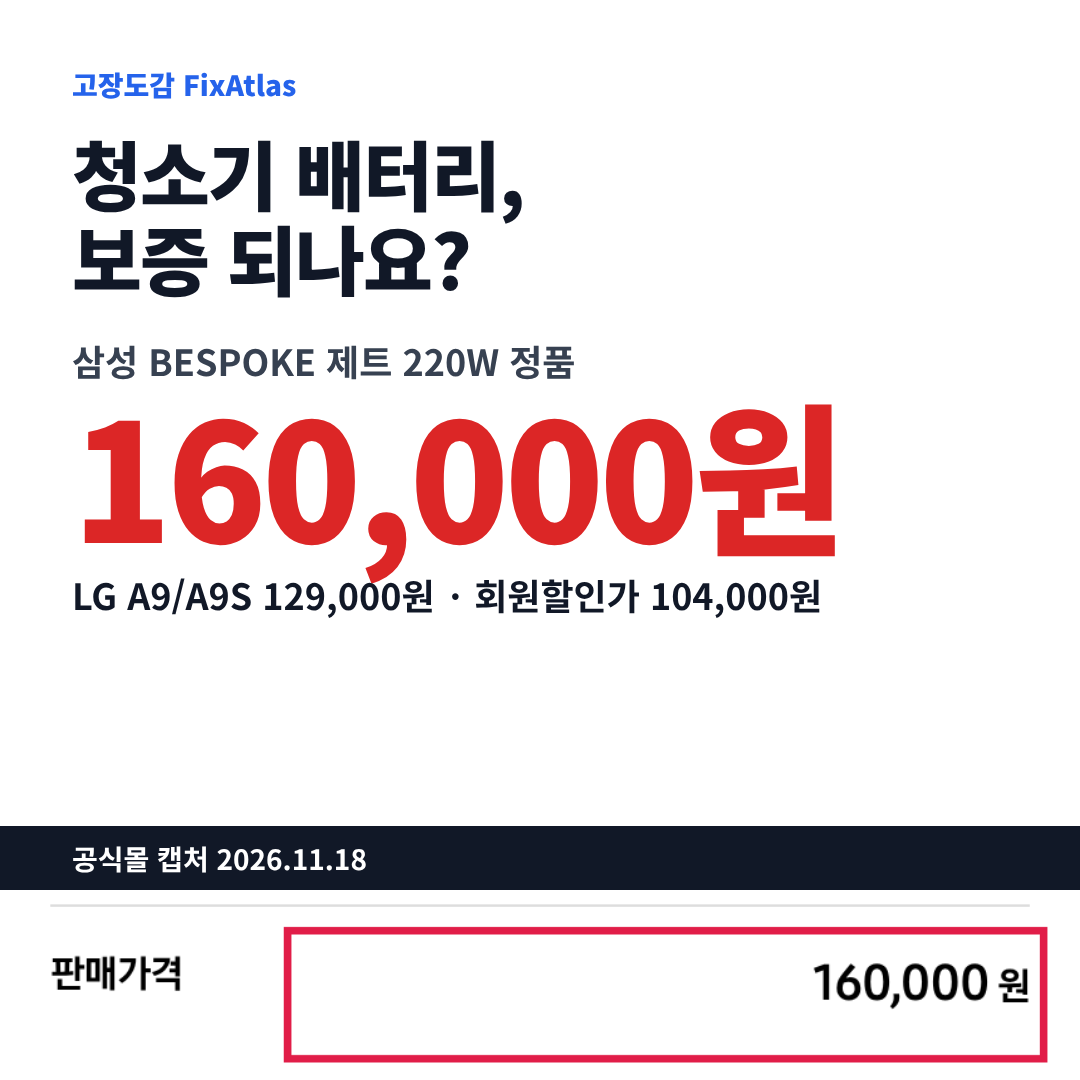
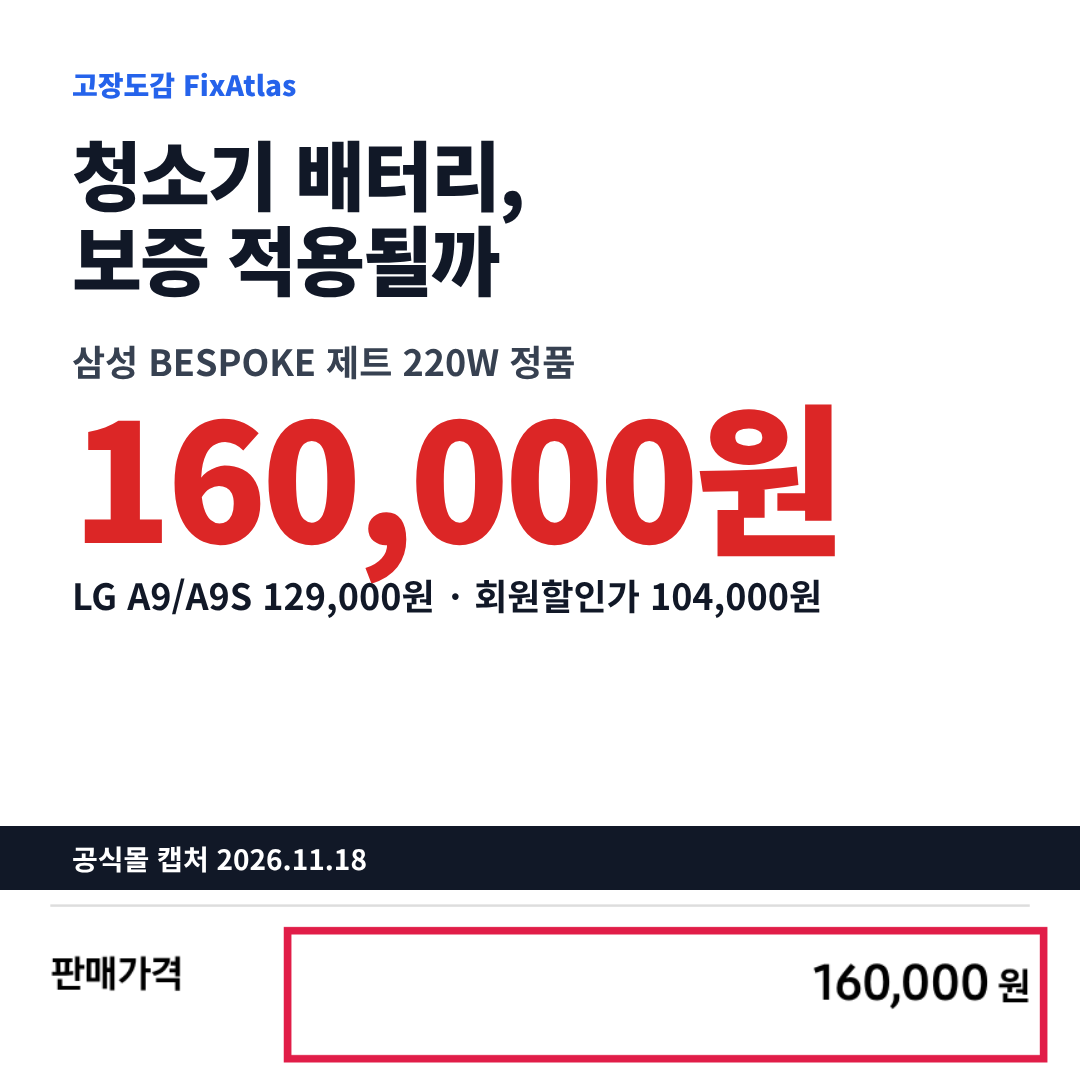
style(blog): formal register (합니다체) rewrite per user review, using koreanRewriting rules
- posts 01-03 rewritten in 격식체; disclosure as one quote-styled line ('광고·제휴 없이 작성한 글입니다');
  work-report narration ('열어 대조했고 캡처해 붙였어요') removed — dates moved to source lines and captions
- koreanRewriting quick-rules applied: no comma after connective endings (C-11: 20 -> 0), register
  consistency, fewer summary/cleft endings; metrics via its prepare_monolith_input.py (risk low, route light)
- check-claims: informal_register (해요체 fails unless register: polite) and work_report checks
- thumbnails: headline copy without 해요체; EDITORIAL_STANDARDS §5 rewritten; affiliate disclosure sample formal

Claude-Session: https://claude.ai/code/session_01S8aYJMqtEgMRbXyeMmbqGH

Changed region(s): [[0.2139, 0.1833, 0.4583, 0.275]]

diff --git a/docs/blog/naver/03-robot-defects.md b/docs/blog/naver/03-robot-defects.md
@@ -34,17 +34,17 @@ claims:
 
 # 로봇청소기 고장 피해 10건 중 7건이 제품 하자 (2025 소비자원 분석)
 
-한국소비자원이 2022년부터 2025년 6월까지 접수된 로봇청소기 피해구제 신청을 분석했더니, 74.5%가 제품 하자 때문이었어요. 그런데 하자 피해를 환급·수리 등으로 회복한 비율은 56.5%로, 계약·거래 피해(84.1%)보다 크게 낮았어요. 소비자원은 사업자가 하자를 인정하지 않거나 소비자의 사용 과실을 주장해 합의가 어렵다고 설명했어요.
+한국소비자원이 2025년 8월 발표한 분석에 따르면 2022년부터 2025년 6월까지 접수된 로봇청소기 피해구제 신청의 74.5%가 제품 하자 때문이었습니다. 하자 피해를 환급·수리 등으로 회복한 비율은 56.5%로 계약·거래 피해(84.1%)보다 크게 낮았습니다. 소비자원은 사업자가 하자를 인정하지 않거나 소비자의 사용 과실을 주장해 합의가 어렵다고 설명했습니다.
 
-![로봇청소기 하자 분쟁 회복률과 소비자원 보도자료 캡처](../cards/03-defects-thumb.png)
+![로봇청소기 하자 분쟁 회복률과 소비자원 보도자료 화면](../cards/03-defects-thumb.png)
 
-숫자는 2025년 8월 소비자원 보도자료에서 가져왔고, 2026년 11월 18일에 원문의 본문·표·그래프와 다시 대조했어요. 새 자료가 나오면 바꿔 실을게요. 광고·제휴는 없어요.
+> 광고·제휴 없이 작성한 글입니다.
 
-신청 건수도 늘고 있어요. 2022년 37건이던 것이 2024년 105건이 됐고, 2025년에는 상반기에만 77건이 접수됐어요.
+신청 건수도 늘고 있습니다. 2022년 37건에서 2024년 105건이 되었고 2025년에는 상반기에만 77건이 접수됐습니다.
 
 ## 어떤 하자가 많았나
 
-제품 하자가 확인된 169건을 유형별로 나눈 결과예요. 보도자료 본문에는 네 가지만 나오지만, 함께 실린 그래프를 보면 소음이 누수보다 많아요.
+제품 하자가 확인된 169건을 유형별로 나누면 다음과 같습니다. 보도자료 본문에는 네 가지 유형만 나오지만 함께 실린 그래프에서는 소음이 누수보다 많습니다.
 
 | 하자 유형 | 비율 |
 |---|---|
@@ -54,76 +54,76 @@ claims:
 | 소음 발생 | 11.8% (그래프에 비율만 표시) |
 | 누수 | 10.7% (18건) |
 
-출처: 한국소비자원 보도자료 본문과 "하자 유형별 현황" 그래프(2026-11-18 확인, 아래 캡처).
+출처: 한국소비자원 보도자료(2025년 8월) 본문과 "하자 유형별 현황" 그래프
 
-![한국소비자원 보도자료의 하자 유형별 현황 그래프(중복 집계)](../evidence/2026-11-robot-defect/kca-chart.png)
+![한국소비자원 보도자료의 하자 유형별 현황 그래프(중복 집계, 2026년 11월 18일 화면)](../evidence/2026-11-robot-defect/kca-chart.png)
 
-그래프 제목에 "중복 집계"라고 적혀 있어요. 한 건에 여러 하자가 겹칠 수 있어서 항목을 다 더하면 100%를 넘어요. 배터리 불량(7.1%)이나 바퀴·브러시 고장도 뒤를 이었어요.
+그래프 제목에 "중복 집계"라고 적혀 있습니다. 한 건에 여러 하자가 겹칠 수 있어 항목을 모두 더하면 100%를 넘습니다. 배터리 불량(7.1%)과 바퀴·브러시 고장이 그 뒤를 잇습니다. 누수는 물청소 기능을 갖춘 제품이 늘면서 생긴 피해라는 것이 소비자원의 설명입니다.
 
 ## 교환·환급을 요구할 수 있는 기준
 
-공정거래위원회 고시 「소비자분쟁해결기준」 별표의 가전제품 기준이에요. 제조사 구분 없이 적용되고, 법제처 국가법령정보센터에 올라온 별표 원문으로 확인했어요.
+공정거래위원회 고시 「소비자분쟁해결기준」의 가전제품 기준은 제조사와 관계없이 적용됩니다.
 
 | 언제, 어떤 하자 | 요구할 수 있는 것 |
 |---|---|
-| 산 지 10일 안에 정상 사용 중 중요한 수리가 필요한 하자 | 제품 교환 또는 구입가 환급 |
-| 산 지 1개월 안에 정상 사용 중 중요한 수리가 필요한 하자 | 제품 교환 또는 무상수리 |
-| 품질보증기간 안에 같은 하자를 2회 고쳤는데 또 생김(3회째) | 수리 불가능으로 보고 교환 또는 구입가 환급 |
-| 품질보증기간 안에 여러 부위를 4회 고쳤는데 또 생김(5회째) | 수리 불가능으로 보고 교환 또는 구입가 환급 |
+| 구입 10일 안에 정상 사용 중 중요한 수리가 필요한 하자 | 제품 교환 또는 구입가 환급 |
+| 구입 1개월 안에 정상 사용 중 중요한 수리가 필요한 하자 | 제품 교환 또는 무상수리 |
+| 품질보증기간 안에 같은 하자를 2회 수리했는데 재발(3회째) | 수리 불가능으로 보고 교환 또는 구입가 환급 |
+| 품질보증기간 안에 여러 부위를 4회 수리했는데 재발(5회째) | 수리 불가능으로 보고 교환 또는 구입가 환급 |
 
-출처: 공정거래위원회 고시 「소비자분쟁해결기준」 별표 Ⅱ 9. 공산품(가전제품), 법제처 국가법령정보센터 게시 파일(2026-11-18 확인). 아래 캡처는 같은 기준을 옮겨 둔 LG전자 안내 페이지예요.
+출처: 공정거래위원회 고시 「소비자분쟁해결기준」 별표 Ⅱ 9. 공산품(가전제품), 법제처 국가법령정보센터 게시 파일
 
-![LG전자 요금/보증 안내에 실린 소비자분쟁해결기준 가전제품 기준](../evidence/2026-11-robot-defect/dispute-rules.png)
+![같은 기준을 옮겨 둔 LG전자 요금/보증 안내(2026년 11월 18일 화면)](../evidence/2026-11-robot-defect/dispute-rules.png)
 
-몇 번 고쳤는지가 교환·환급의 근거가 되니, 수리할 때마다 수리 내역서를 받아 두세요.
+수리 횟수가 교환·환급의 근거가 되므로 수리할 때마다 수리 내역서를 받아 두어야 합니다.
 
-## 사용 과실이라는 말을 들었을 때 필요한 기록
+## 사용 과실 판정에 대비한 기록
 
-업체가 사용 과실을 주장하면 "정상적인 사용상태"였다는 걸 보여 줄 기록이 필요해요.
+업체가 사용 과실을 주장하면 "정상적인 사용상태"였음을 보여 줄 기록이 필요합니다.
 
 - 증상이 처음 나타난 날짜와 앱의 오류 메시지 화면
-- 증상이 나는 순간의 짧은 영상(어느 방, 어떤 바닥인지 같이 보이게)
-- 설명서대로 썼다는 근거: 문턱 높이, 바닥 물기, 정품 소모품 사용 여부
-- 센터 판정 내용과 수리 내역서(되도록 문자나 서면으로)
+- 증상이 나타나는 순간의 짧은 영상(방과 바닥 상태가 함께 보이도록)
+- 설명서대로 사용했다는 근거: 문턱 높이, 바닥 물기, 정품 소모품 사용 여부
+- 서비스센터 판정 내용과 수리 내역서(가능하면 문자나 서면)
 
-[[직접 확인: 집에 있는 로봇청소기로 위 기록을 실제로 남겨 보거나(오류 화면·센서 위치 사진), 직접 겪은 고장·판정 사례가 있다면 날짜·증상·센터 판정·결과를 3~5문장으로 적기. 본인 사례가 없으면 지인 사례를 동의받아 익명으로. 이 칸이 비면 발행을 미룸]]
+[[직접 확인: 집에 있는 로봇청소기로 위 기록을 실제로 남겨 보거나(오류 화면·센서 위치 사진), 직접 겪은 고장·판정 사례가 있으면 날짜·증상·센터 판정·결과를 격식체 3~5문장으로 적기. 본인 사례가 없으면 지인 사례를 동의받아 익명으로. 이 칸이 비면 발행을 미룸]]
 
-합의가 안 되면 이 순서로 가요.
+합의가 되지 않으면 다음 순서로 진행합니다.
 
-1. 제조사나 판매처에 수리 내역과 기록을 보여 주고 교환·환급을 요구하기
-2. 국번 없이 1372(소비자상담센터)에 상담하기
-3. 그래도 안 되면 한국소비자원에 피해구제 신청하기(고시 제2조)
+1. 제조사나 판매처에 수리 내역과 기록을 제시하고 교환·환급을 요구
+2. 국번 없이 1372(소비자상담센터)에 상담 신청
+3. 그래도 해결되지 않으면 한국소비자원에 피해구제 신청(고시 제2조)
 
-## 맡기기 전에 해 볼 수 있는 점검
+## 맡기기 전 점검
 
-소비자원은 센서가 오작동하지 않도록 먼지를 제거하고, 청소 전에는 음식물처럼 방해되는 물건을 치우라고 당부했어요. 범퍼가 눌린 채 끼어 있지 않은지, 바퀴와 브러시에 머리카락이 감기지 않았는지도 보세요.
+소비자원은 센서가 오작동하지 않도록 먼지를 제거하고 청소 전에는 음식물처럼 방해가 되는 물건을 치우라고 당부했습니다. 범퍼가 눌린 채 끼어 있지 않은지, 바퀴와 브러시에 머리카락이 감기지 않았는지도 확인할 부분입니다.
 
-물이 샜다면 여기서 멈추세요. 전원을 끄고 충전을 멈춘 뒤 서비스센터에 맡기고, 본체를 열어 말리지는 마세요.
+물이 샜다면 점검을 멈추고 전원을 끈 뒤 충전도 중단하십시오. 본체를 열어 말리지 말고 서비스센터에 맡기는 것이 안전합니다.
 
 ![로봇청소기 바닥 센서 위치](photo:본체를 뒤집어 낭떠러지 센서 위치를 표시한 사진. 전원 끈 상태. 있으면 대표 이미지 후보)
 
 ## 구매 단계에서 생기는 분쟁
 
-계약·거래 피해도 적지 않았어요. 포장박스를 열었다는 이유로 반품을 거부하거나 해외 구매대행 제품에 높은 반환 비용을 청구하는 등 청약철회·계약해제를 거부한 사례가 41.4%(29건), 배송을 미룬 미배송 사례가 37.1%(26건)였어요. 소비자원은 집 구조(문턱 높이 등)에 맞는 사양을 고르라고 권했어요.
+계약·거래 피해도 적지 않았습니다. 포장박스 개봉을 이유로 반품을 거부하거나 해외 구매대행 제품에 높은 반환 비용을 청구하는 등 청약철회·계약해제를 거부한 사례가 41.4%(29건), 배송을 미룬 미배송 사례가 37.1%(26건)였습니다. 소비자원은 집 구조(문턱 높이 등)에 맞는 사양을 고를 것을 권고했습니다.
 
-## 센터 판정을 받아 보셨다면
+## 센터 판정 경험 공유
 
-센터에서 하자 판정을 받았는지, 사용 과실 판정을 받았는지, 그 결과 얼마를 냈는지 알려 주세요. 제보 양식의 후기 칸에 판정 내용을 적어 주시면 같은 모델·증상끼리 묶어 볼 수 있어요. 수리비는 같은 모델·증상 5건이 모이면 중앙값으로 공개해요. [로봇청소기 고장·수리 경험 제보하기](site:/submit-repair?symptom=sym-5#cta-bottom)
+센터에서 하자 판정을 받았는지 사용 과실 판정을 받았는지, 그 결과 얼마를 냈는지 알려 주십시오. 제보 양식의 후기 칸에 판정 내용을 적어 주시면 같은 모델·증상끼리 묶어 비교할 수 있습니다. 수리비는 같은 모델·증상 제보가 5건 모이면 중앙값으로 공개합니다. [로봇청소기 고장·수리 경험 제보하기](site:/submit-repair?symptom=sym-5#cta-bottom)
 
-'사용 과실' 판정을 받아 본 분은 어떤 증상이었는지 댓글로도 남겨 주세요.
+'사용 과실' 판정을 받아 보신 분은 어떤 증상이었는지 댓글로도 남겨 주시기 바랍니다.
 
 ## 출처
 
-- 한국소비자원 [로봇 청소기 피해구제 신청 10건 중 7건이 제품 하자 불만](https://www.kca.go.kr/home/sub.do?menukey=4005&mode=view&no=1003906171&page=2) (2025년 8월 보도자료 · 2026-11-18 원문 확인)
-- 공정거래위원회 고시 「소비자분쟁해결기준」 별표 Ⅱ — [법제처 국가법령정보센터 게시 파일](https://www.law.go.kr/LSW/flDownload.do?flSeq=137702403&bylClsCd=200201) (가전제품 항목 · 2026-11-18 확인), 같은 기준을 옮긴 [LG전자 요금/보증 안내](https://www.lge.co.kr/support/rates-warranty-guide)
+- 한국소비자원 [로봇 청소기 피해구제 신청 10건 중 7건이 제품 하자 불만](https://www.kca.go.kr/home/sub.do?menukey=4005&mode=view&no=1003906171&page=2) (2025년 8월 보도자료 · 2026년 11월 18일 기준)
+- 공정거래위원회 고시 「소비자분쟁해결기준」 별표 Ⅱ — [법제처 국가법령정보센터 게시 파일](https://www.law.go.kr/LSW/flDownload.do?flSeq=137702403&bylClsCd=200201) (가전제품 항목 · 2026년 11월 18일 기준), 같은 기준을 옮긴 [LG전자 요금/보증 안내](https://www.lge.co.kr/support/rates-warranty-guide)
 - 고장도감 [수리비 데이터 방법론 v1.1](site:/methodology#sources)
 
-만든 방법: AI 도구로 초안을 쓰고 출처 문구·숫자를 원문과 자동 대조했습니다. 편집자가 [[직접 확인: 원문과 캡처를 직접 다시 확인한 날짜(YYYY-MM-DD)]]에 원문과 캡처를 다시 확인했습니다. AI를 어디까지 쓰는지는 [방법론의 AI 사용 원칙](site:/methodology#ai)에 적어 두었습니다.
+> 만든 방법: AI 도구로 초안을 쓰고 출처의 숫자·문구를 원문과 자동 대조했습니다. 편집자 확인일은 [[직접 확인: 편집자가 원문과 캡처를 직접 다시 확인한 날짜(YYYY-MM-DD)]]입니다. AI 사용 범위는 [방법론의 AI 사용 원칙](site:/methodology#ai)에 정리했습니다.
 
-보도자료와 고시를 정리한 참고 정보라, 개별 분쟁의 결과는 제품 상태와 판정에 따라 갈려요.
+보도자료와 고시를 정리한 참고 정보이므로 개별 분쟁의 결과는 제품 상태와 판정에 따라 달라질 수 있습니다.
 
-바로잡기: 숫자나 문구가 원문과 다르면 댓글로 알려 주세요. 원문을 다시 열어 고치고 수정 이력에 남겨요.
+바로잡기: 숫자나 문구가 원문과 다르면 댓글로 알려 주십시오. 원문을 다시 확인해 고치고 수정 이력에 남기겠습니다.
 
 쓴 사람: [[직접 확인: 이름 또는 활동명과 한 줄 소개(무슨 일을 하는 사람이고 왜 이 기록을 하는지). 모든 글에 같은 문장을 씀]]
 
-수정 이력: 2026-11-17 첫 원고 · 2026-11-18 원문 재대조 — 첫 원고의 "고장 4대 유형"(센서·작동 불가·부가기능·누수)을 고침. 본문만 읽고 정했는데, 보도자료 그래프에서는 소음 발생(11.8%)이 누수(10.7%)보다 많았음. 연도별 건수 출처를 언론 보도에서 보도자료 표로 바꿈 · 2026-11-18 제목 교체, 소비자분쟁해결기준(교환·환급 기준)과 피해구제 순서 추가, 제보 안내를 판정 중심으로 변경
+수정 이력: 2026-11-17 첫 원고 · 2026-11-18 "고장 4대 유형"(센서·작동 불가·부가기능·누수) 수정(본문만 보고 정했으나 보도자료 그래프에서는 소음 발생 11.8%가 누수 10.7%보다 많음), 연도별 건수 출처를 보도자료 표로 변경, 제목 교체, 소비자분쟁해결기준과 피해구제 순서 추가, 격식체로 문체 정리

diff --git a/docs/blog/EDITORIAL_STANDARDS.md b/docs/blog/EDITORIAL_STANDARDS.md
@@ -73,18 +73,23 @@
 - **댓글**: 댓글 금액은 C등급이라 통계에 넣지 않는다. 다음 글의 질문 목록으로만 쓴다.
 - **첫 글은 모바일 미리보기로 표·인용구 모양을 확인한다.** 스마트에디터 붙여넣기 서식 유지는 아직 확인하지 못했다.
 
-## 5. 문체 — 어미를 블록 단위로 나눈다
+## 5. 문체 — 격식체(합니다체)로 쓴다 (2026-11-18 개정, 사용자 검수)
 
-R10에서 반응 지표가 보인 3곳은 모두 해요체를 섞었다. 합니다체만 쓰면 딱딱하고, 해요체만 쓰면 숫자의 무게가 가볍다. 그래서 블록 단위로 정한다.
+해요체는 쓰지 않는다. 블로그 원고 전체를 합니다체로 쓰고, 행동 요청은 "~하십시오", "~해 주십시오", "~남겨 주시면 ~하겠습니다"로 쓴다. 점검기가 해요체로 끝나는 문장을 실패 처리한다(`informal_register`). 예외가 필요한 글만 front matter에 `register: polite`를 적는다.
 
-| 합니다체 | 해요체 |
-|---|---|
-| 데이터 요약, 만든 방법, 숫자가 많은 첫 문단 | 설명 문단, 주의 문장, 점검 목록, 행동 유도, 맺음 |
+**작업 보고 문장 금지**: "공식 페이지를 다시 열어 대조했고 그 화면을 캡처해 붙였어요"처럼 편집자나 AI가 한 일을 보고하는 문장은 챗봇이 사용자에게 보고하는 말투로 읽힌다. 같은 사실은 표 아래 출처 줄("출처: ○○(2026년 11월 18일 기준)")과 캡처 설명("…(2026년 11월 18일 화면)")으로 옮긴다. 점검기가 "대조했·캡처해 붙였·열어 확인·맞춰 봤·한 줄씩" 같은 표현을 잡는다(`work_report`). "만든 방법" 고지 줄만 예외다.
 
-글 전체를 해요체로 써도 된다(예: 2편). 세 편이 모두 같은 자리에서 합니다체에서 해요체로 바뀌면 그것도 틀로 읽힌다(독립 검토 지적).
+**광고·제휴 표기**: 본문과 다른 서식(인용구 블록)으로 한 줄만 쓴다. `> 광고·제휴 없이 작성한 글입니다.` 문장으로 늘어놓지 않는다.
 
-금지: 반말, 같은 문단 안 어미 혼용(점검기 실패), 인사 서론, 분량 채우기 문단("가전은 생활에 꼭 필요한…", G4 Filler).
-문체만 사람처럼 바꾸는 것은 해법이 아니다(R13 S7). 신뢰는 §9의 증거·직접 확인·공개로 만든다.
+윤문 기준은 `489156/koreanRewriting`(humanize-korean)의 quick-rules를 따른다. 특히 다음을 지킨다.
+- 연결어미 뒤 쉼표를 쓰지 않는다(C-11). "~이라, ", "~했고, "를 쓰지 않는다.
+- 같은 종결어미가 4문장 넘게 이어지지 않게 동사를 바꾼다(E-2).
+- 결산형 "~라는 뜻입니다", "핵심은 ~"을 줄인다(I-3, D-8).
+- 굵은 글씨와 대시를 남용하지 않는다(J-1, J-3).
+
+측정은 그 저장소의 `scripts/prepare_monolith_input.py --genre blog`로 한다(위험 등급·route_hint).
+
+금지: 반말, 인사 서론, 분량 채우기 문단(G4 Filler).
 
 ## 6. 디자인
 

diff --git a/docs/blog/AFFILIATE_PLAN.md b/docs/blog/AFFILIATE_PLAN.md
@@ -31,10 +31,10 @@
 1. front matter: `affiliate: pending` → `affiliate: linkprice`(또는 `shopping-connect`)
 2. 본문 첫 줄(H1 바로 아래, 답 문단보다 앞)에 고지를 넣는다.
    - 쇼핑 커넥트: `이 포스팅은 네이버 쇼핑 커넥트 활동의 일환으로, 판매 발생 시 수수료를 제공받습니다.` (문구를 고치지 않는다. 이미지 속 삽입 금지, #내돈내산 표시와 함께 쓸 수 없음)
-   - 링크프라이스·쿠팡: `이 글의 링크 중 일부는 제휴 링크예요. 링크로 구매하면 고장도감이 판매 수수료를 받아요. 가격과 보증 판단은 제휴와 관계없이 공식 페이지 기준으로 썼어요.`
-3. "광고나 제휴 없이 쓰는 글이에요." 문장을 지운다(점검기가 남아 있으면 실패 처리).
+   - 링크프라이스·쿠팡: `이 글의 링크 중 일부는 제휴 링크입니다. 링크로 구매하면 고장도감이 판매 수수료를 받습니다. 가격과 보증 판단은 제휴와 관계없이 공식 페이지 기준입니다.`
+3. `> 광고·제휴 없이 작성한 글입니다.` 줄을 지운다(점검기가 남아 있으면 실패 처리).
 4. 링크 1개만 넣는다. 위치는 가격 표 아래 출처 줄 다음이다.
-   `LG A9/A9S 정품 배터리는 [LG전자 공식몰 상품 페이지](aff:linkprice:<발급받은 https 딥링크>)에서 살 수 있어요.`
+   `LG A9/A9S 정품 배터리는 [LG전자 공식몰 상품 페이지](aff:linkprice:<발급받은 https 딥링크>)에서 구매할 수 있습니다.`
    LG전자 공식몰(LGE.COM)은 링크프라이스 광고주다 [공식, R14]. 삼성 소모품샵의 제휴 경로는 확인하지 못했다 [unverified].
 5. 대표 이미지(썸네일)에는 "광고·제휴 없음" 칩을 넣지 않는다(현재 썸네일에는 없음).
 6. 점검·내보내기를 다시 돌린다. `naver-export`는 제휴 링크를 손대지 않고 그대로 내보내고 `rel="sponsored nofollow"`를 붙인다.
